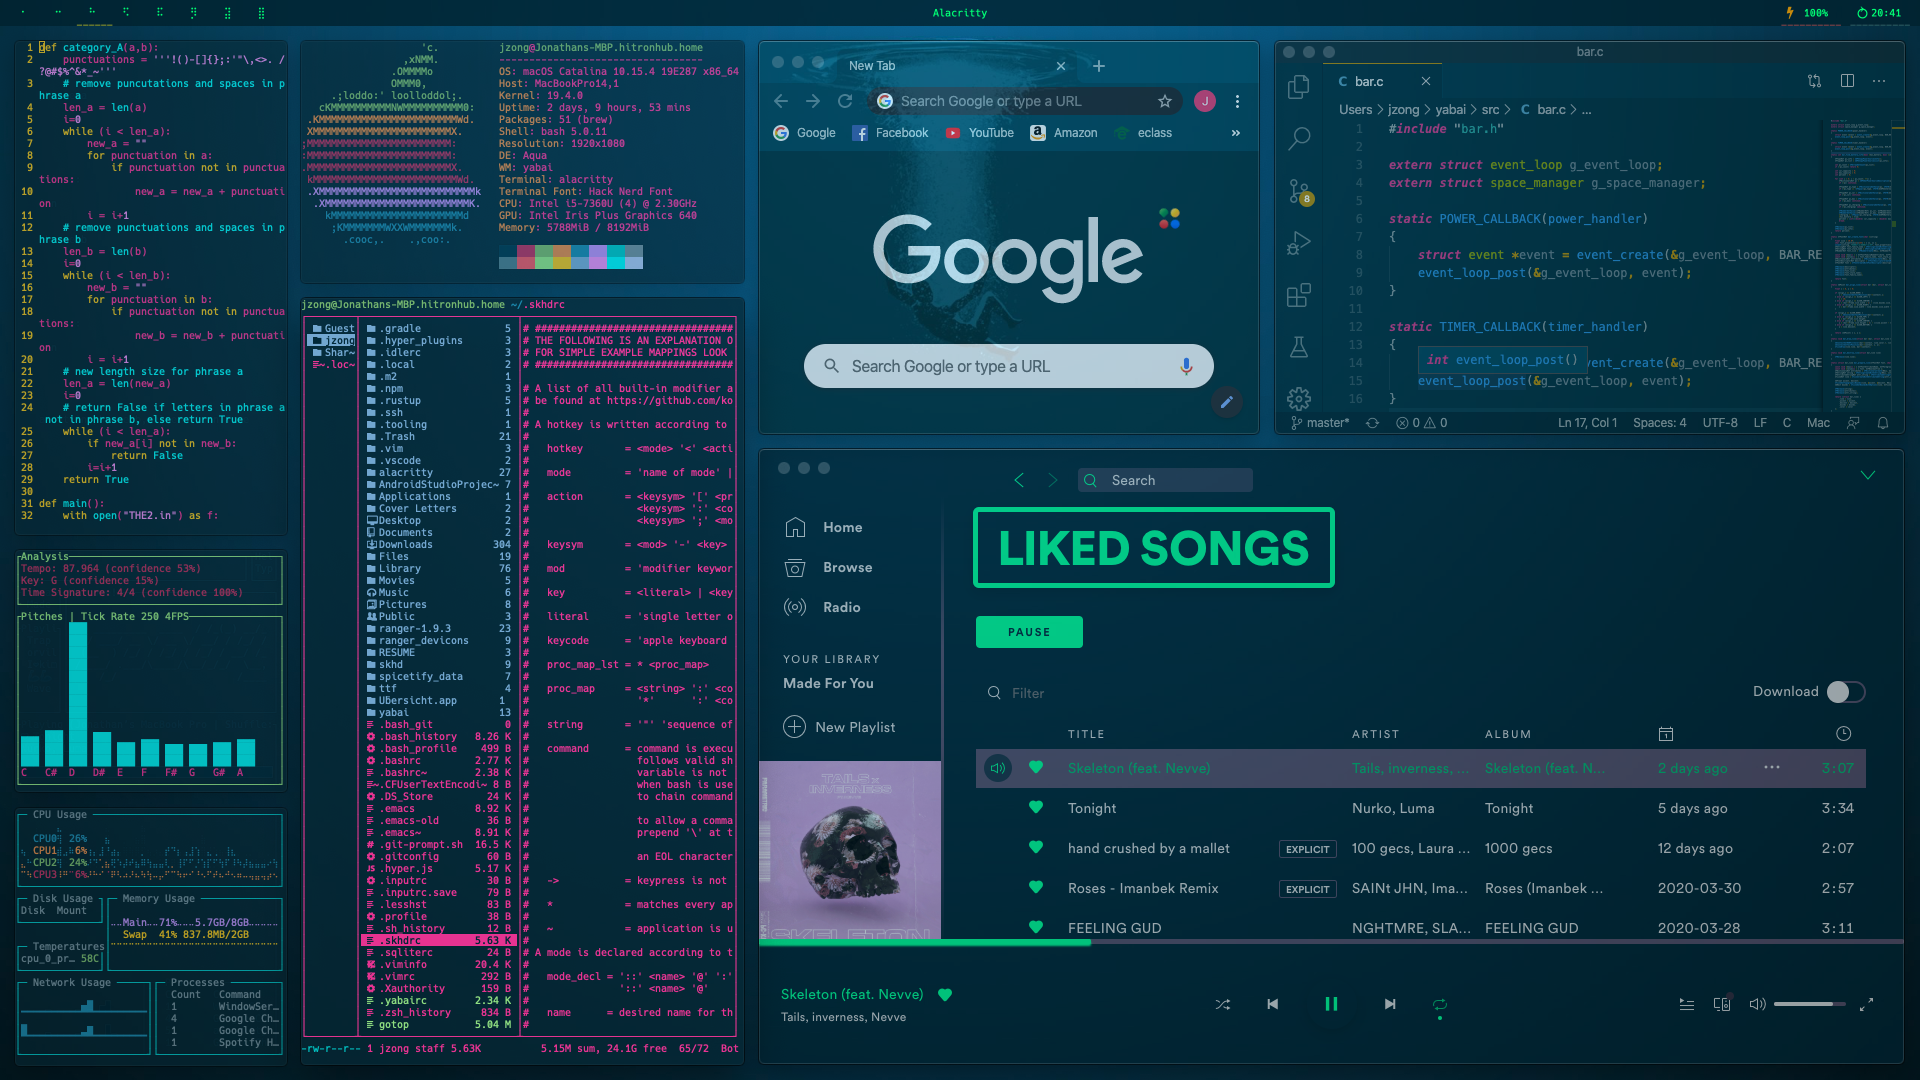
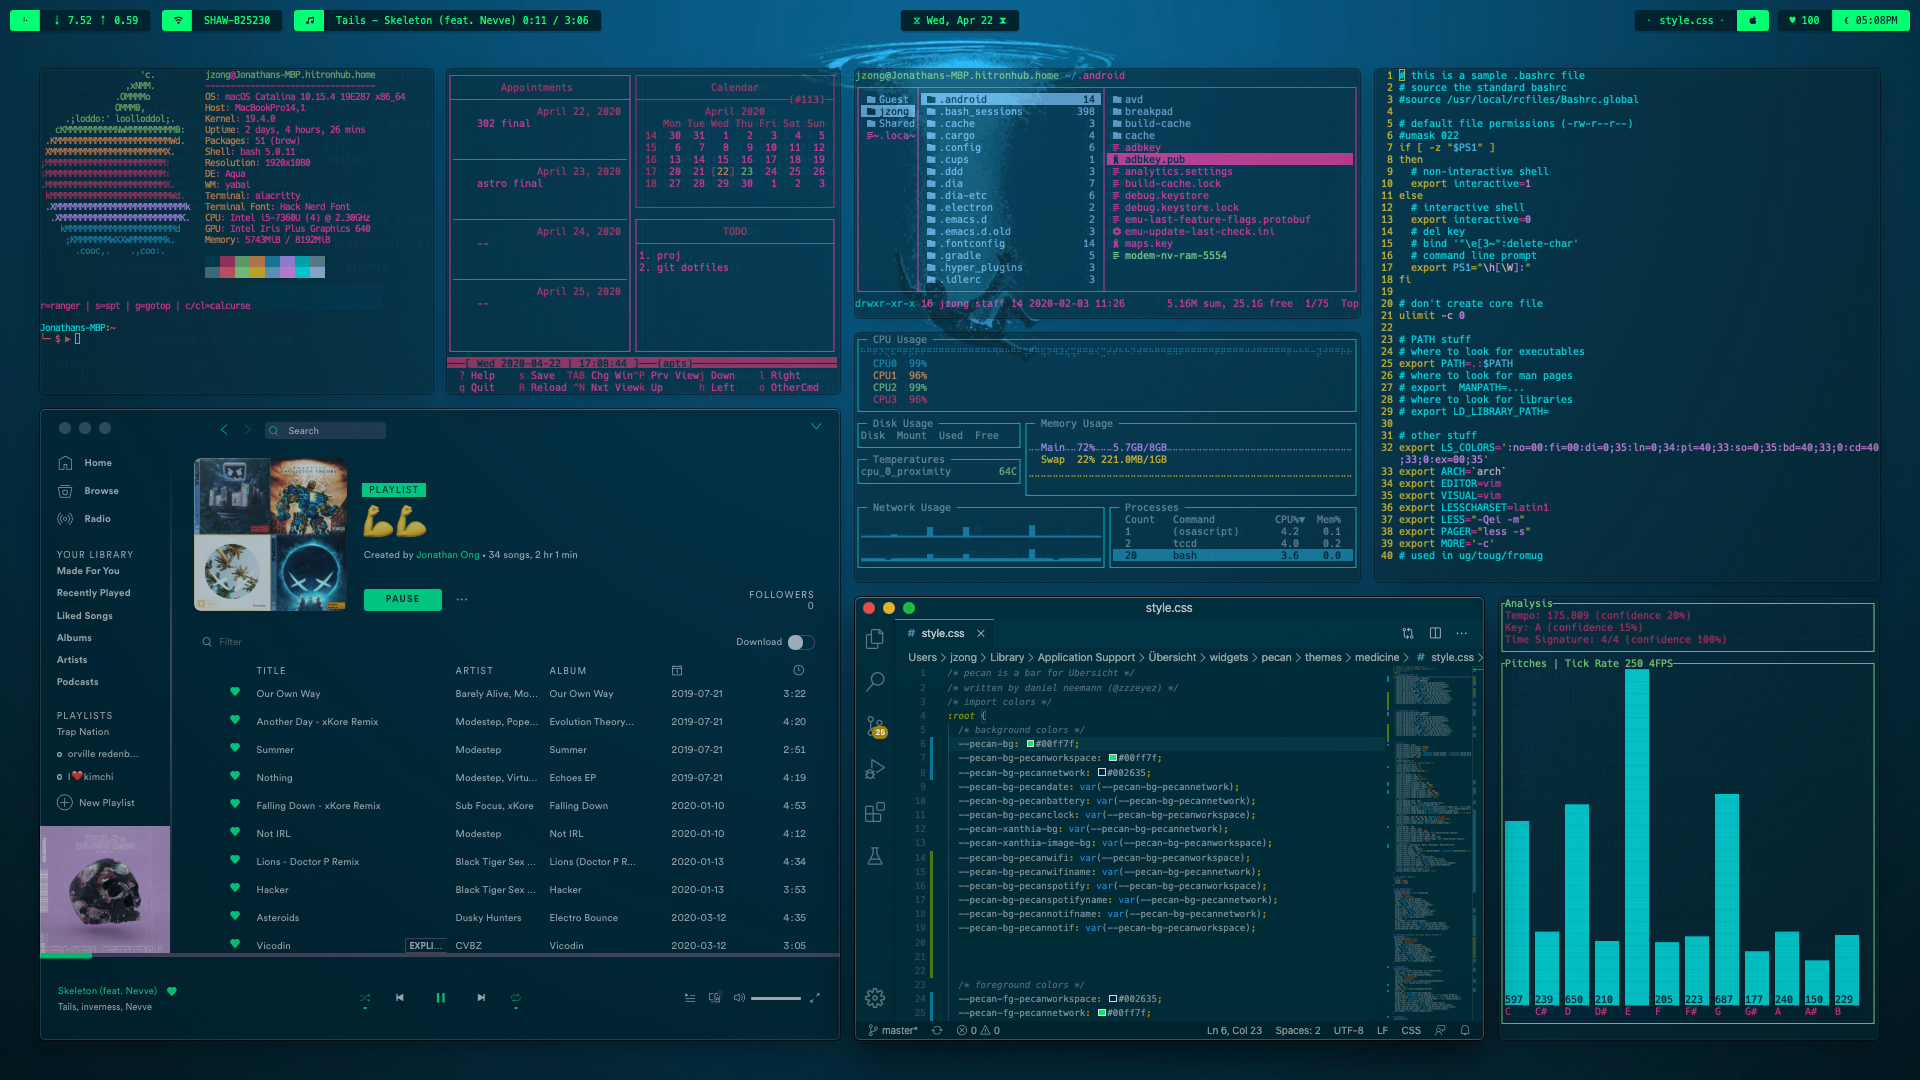
fix images

Changed region(s): [[0.0, 0.0, 1.0, 0.9778]]

diff --git a/about.md b/about.md
@@ -20,7 +20,7 @@ To my right is a photo of myself when I was young, don't even ask what I'm holdi
 To get to know me better, below are just a few hobbies I personally enjoy.
 
 ### Ricing Desktops
-<p><span class="image left"><img src="{{ "/images/hobbies/got.png" | absolute_url }}" alt="" /></span>Ricing or R.I.C.E. is a term that originates from the car enthusiast community, which stands for Race Inspired Cosmetic Enhancements (usually also refers to cars from Japan). Essentially, people would make modifications to their cars, mainly in terms of looks, but wouldn't actually enhance any performance; make them appear faster when it's not. For example, people would put stickers to make their cars look all flashy, but with engines obviously untouched.</p>
+<p><span class="image left"><img src="{{ "/images/hobbies/rice1.png" | absolute_url }}" alt="" /></span>Ricing or R.I.C.E. is a term that originates from the car enthusiast community, which stands for Race Inspired Cosmetic Enhancements (usually also refers to cars from Japan). Essentially, people would make modifications to their cars, mainly in terms of looks, but wouldn't actually enhance any performance; make them appear faster when it's not. For example, people would put stickers to make their cars look all flashy, but with engines obviously untouched.</p>
 <p><span class="image right"><img src="{{ "/images/hobbies/rice2.png" | absolute_url }}" alt="" /></span>In the context of Desktops and <a href="https://www.reddit.com/r/unixporn/">r/unixporn</a>, it refers to customizing one's desktop using visual improvements, such as icons, apps, or really the entire system. It became a staple in the reddit community where people posted their visually attractive desktops, upgraded beyond the default design. I personally have customized my desktop back in highschool to my liking, as well as recently in 2020 on my Mac (shown in the 2 images).</p>
 
 ### Keeb
